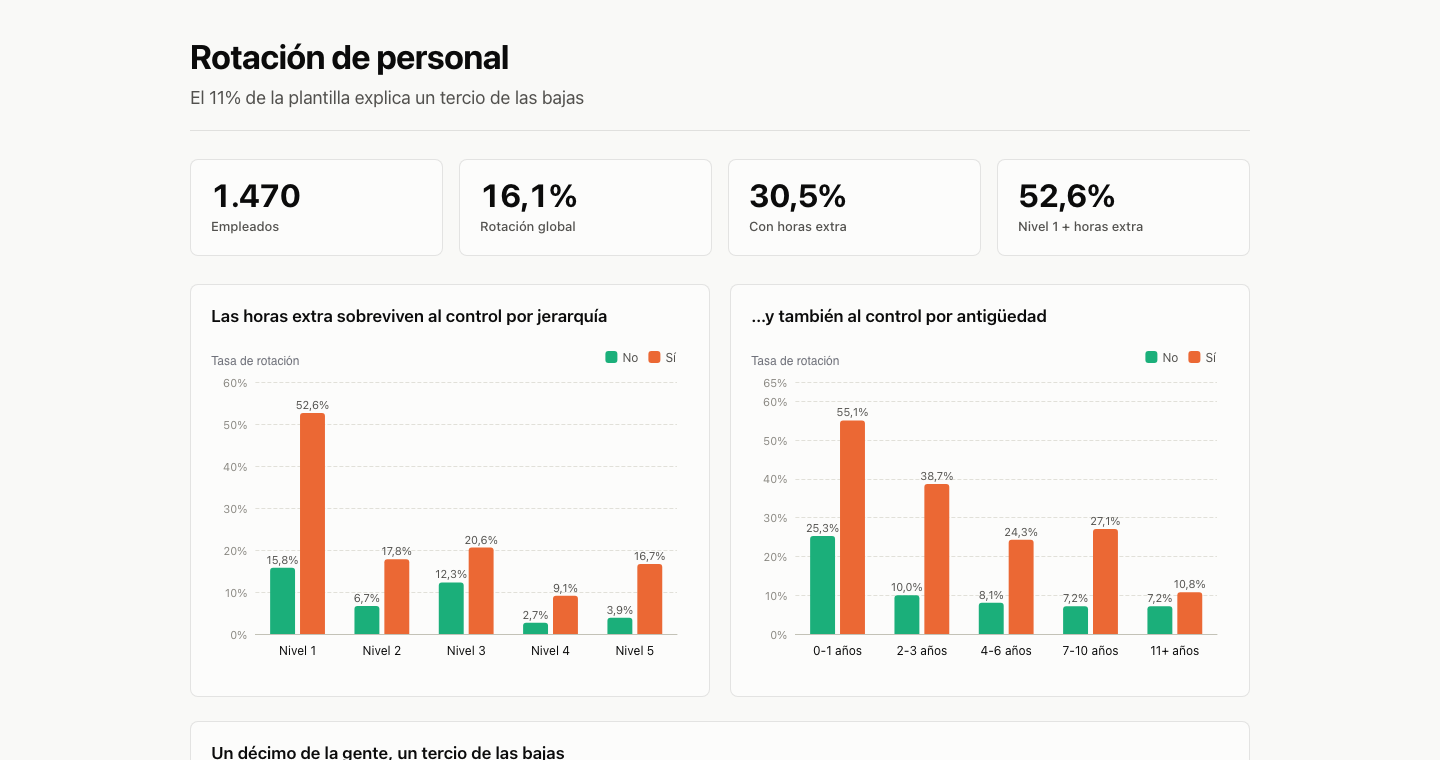
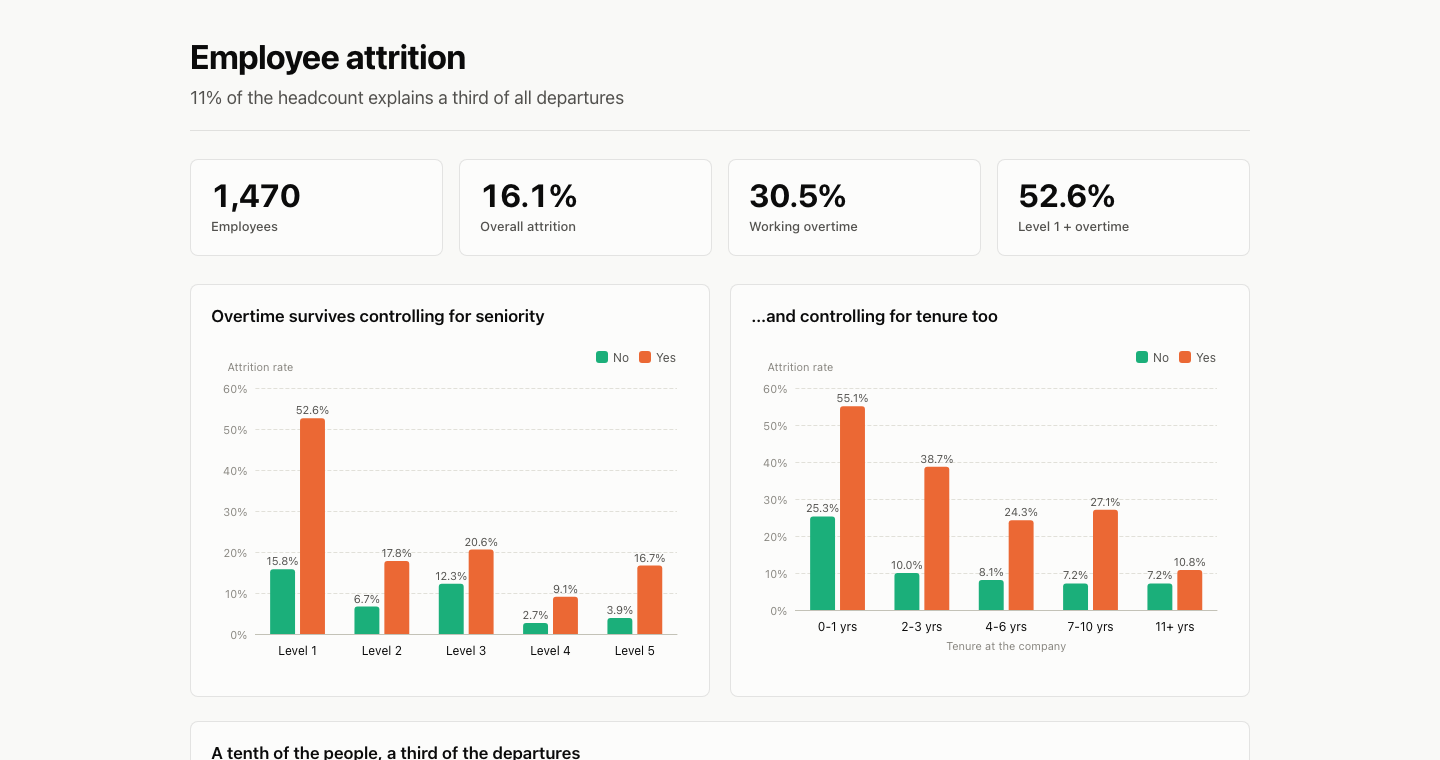
attrition.html: la version en ingles, ya sin choques de etiquetas
Las dos condiciones que bloqueaban la publicacion estan cumplidas. El
tablero esta en en-US sobre un sitio en ingles, numeros incluidos, y el
T-003 corrigio los cuatro titulos de eje encimados o cortados.

Sale de cambiar un JSON: mismo grafico.js para las dos versiones.

diff --git a/docs/dashboards/attrition.html b/docs/dashboards/attrition.html
@@ -1,9 +1,9 @@
 <!doctype html>
-<html lang="es-AR">
+<html lang="en-US">
 <head>
 <meta charset="utf-8">
 <meta name="viewport" content="width=device-width, initial-scale=1">
-<title>Rotación de personal</title>
+<title>Employee attrition</title>
 <!-- Tokens inlineados por build.py. No editar acá: la fuente es design/tokens.css -->
 <style>/* ============================================================
    DESIGN TOKENS — CERRADO
@@ -360,8 +360,8 @@ body {
 <body>
 <main class="reporte">
   <header class="cab">
-    <h1>Rotación de personal</h1>
-    <p class="bajada">El 11% de la plantilla explica un tercio de las bajas</p>
+    <h1>Employee attrition</h1>
+    <p class="bajada">11% of the headcount explains a third of all departures</p>
   </header>
 
   <!-- Secciones del reporte de rotación T-001 / T-002 -->
@@ -412,12 +412,12 @@ body {
 </section>
 
 
-  <footer class="pie"><p>Fuente: IBM HR Analytics — dataset sintético publicado por IBM. La metodología es real; los números no describen a ninguna empresa existente.</p></footer>
+  <footer class="pie"><p>Source: IBM HR Analytics — synthetic dataset published by IBM. The method is real and transferable; the figures describe no existing company.</p></footer>
 </main>
 
 <!-- Datos embebidos. NUNCA fetch: con file:// lo bloquea CORS y la pagina
      queda en blanco, que es exactamente el fallo que rompe el entregable. -->
-<script type="application/json" id="datos">{"libreria": "echarts", "cliente": "Muestra — IBM HR Analytics", "idioma": "es-AR", "titulo": "Rotación de personal", "bajada": "El 11% de la plantilla explica un tercio de las bajas", "pie": "Fuente: IBM HR Analytics — dataset sintético publicado por IBM. La metodología es real; los números no describen a ninguna empresa existente.", "dataset": {"filas": 1470, "fuente": "IBM HR Analytics (sintético, publicado por IBM)"}, "kpis": [{"id": "empleados", "etiqueta": "Empleados", "valor": "1.470"}, {"id": "rotacion", "etiqueta": "Rotación global", "valor": "16,1%"}, {"id": "con_he", "etiqueta": "Con horas extra", "valor": "30,5%"}, {"id": "hotspot", "etiqueta": "Nivel 1 + horas extra", "valor": "52,6%"}], "graficos": [{"id": "g1", "titulo": "Las horas extra sobreviven al control por jerarquía", "forma": "barras_agrupadas", "x": "nivel", "y": "tasa", "series": "horas_extra", "datos": [{"nivel": "Nivel 1", "horas_extra": "No", "tasa": 15.8, "n": 387}, {"nivel": "Nivel 1", "horas_extra": "Sí", "tasa": 52.6, "n": 156}, {"nivel": "Nivel 2", "horas_extra": "No", "tasa": 6.7, "n": 388}, {"nivel": "Nivel 2", "horas_extra": "Sí", "tasa": 17.8, "n": 146}, {"nivel": "Nivel 3", "horas_extra": "No", "tasa": 12.3, "n": 155}, {"nivel": "Nivel 3", "horas_extra": "Sí", "tasa": 20.6, "n": 63}, {"nivel": "Nivel 4", "horas_extra": "No", "tasa": 2.7, "n": 73}, {"nivel": "Nivel 4", "horas_extra": "Sí", "tasa": 9.1, "n": 33}, {"nivel": "Nivel 5", "horas_extra": "No", "tasa": 3.9, "n": 51}, {"nivel": "Nivel 5", "horas_extra": "Sí", "tasa": 16.7, "n": 18}], "etiquetas": {"eje_x": "", "eje_y": "Tasa de rotación", "serie": "Horas extra", "valor": "Tasa de rotación", "n": "Dotación", "unidad_n": "personas"}}, {"id": "g2", "titulo": "…y también al control por antigüedad", "forma": "barras_agrupadas", "x": "tramo", "y": "tasa", "series": "horas_extra", "datos": [{"tramo": "0-1 años", "horas_extra": "No", "tasa": 25.3, "n": 146}, {"tramo": "0-1 años", "horas_extra": "Sí", "tasa": 55.1, "n": 69}, {"tramo": "11+ años", "horas_extra": "No", "tasa": 7.2, "n": 181}, {"tramo": "11+ años", "horas_extra": "Sí", "tasa": 10.8, "n": 65}, {"tramo": "2-3 años", "horas_extra": "No", "tasa": 10.0, "n": 180}, {"tramo": "2-3 años", "horas_extra": "Sí", "tasa": 38.7, "n": 75}, {"tramo": "4-6 años", "horas_extra": "No", "tasa": 8.1, "n": 271}, {"tramo": "4-6 años", "horas_extra": "Sí", "tasa": 24.3, "n": 111}, {"tramo": "7-10 años", "horas_extra": "No", "tasa": 7.2, "n": 276}, {"tramo": "7-10 años", "horas_extra": "Sí", "tasa": 27.1, "n": 96}], "etiquetas": {"eje_x": "Antigüedad en la empresa", "eje_y": "Tasa de rotación", "serie": "Horas extra", "valor": "Tasa de rotación", "n": "Dotación", "unidad_n": "personas"}}, {"id": "g3", "titulo": "Un décimo de la gente, un tercio de las bajas", "forma": "barras_apiladas_100", "x": "panel", "series": "segmento", "datos": [{"panel": "Plantilla", "segmento": "Nivel 1 + horas extra", "pct": 10.6, "n": 156}, {"panel": "Plantilla", "segmento": "Resto", "pct": 89.4, "n": 1314}, {"panel": "Bajas", "segmento": "Nivel 1 + horas extra", "pct": 34.6, "n": 82}, {"panel": "Bajas", "segmento": "Resto", "pct": 65.4, "n": 155}], "etiquetas": {"eje_x": "", "eje_y": "% del total", "serie": "Segmento", "valor": "Participación", "n": "Personas", "unidad_n": "personas"}}, {"id": "g4", "titulo": "El sueldo retiene, pero solo dentro del nivel 1", "forma": "barras", "x": "quintil", "y": "tasa", "datos": [{"quintil": 1, "tasa": 34.9, "n": 109, "rango": "$1.009–2.220", "etiqueta": "1 (más bajo)"}, {"quintil": 2, "tasa": 34.9, "n": 109, "rango": "$2.226–2.506", "etiqueta": "2"}, {"quintil": 3, "tasa": 23.9, "n": 109, "rango": "$2.514–2.811", "etiqueta": "3"}, {"quintil": 4, "tasa": 19.4, "n": 108, "rango": "$2.814–3.423", "etiqueta": "4"}, {"quintil": 5, "tasa": 18.5, "n": 108, "rango": "$3.424–4.968", "etiqueta": "5 (más alto)"}], "etiquetas": {"eje_x": "Quintil de sueldo (1 = más bajo)", "eje_y": "Tasa de rotación", "serie": "Rotación", "subtitulo": "dentro del nivel 1", "valor": "Tasa de rotación", "n": "Dotación", "unidad_n": "personas"}}, {"id": "g5", "titulo": "Rotación por puesto", "forma": "barras_h", "x": "tasa", "y": "puesto", "datos": [{"puesto": "Representante de ventas", "tasa": 39.8, "n": 83}, {"puesto": "Técnico de laboratorio", "tasa": 23.9, "n": 259}, {"puesto": "Recursos humanos", "tasa": 23.1, "n": 52}, {"puesto": "Ejecutivo de ventas", "tasa": 17.5, "n": 326}, {"puesto": "Científico de investigación", "tasa": 16.1, "n": 292}, {"puesto": "Director de manufactura", "tasa": 6.9, "n": 145}, {"puesto": "Representante de salud", "tasa": 6.9, "n": 131}, {"puesto": "Gerente", "tasa": 4.9, "n": 102}, {"puesto": "Director de investigación", "tasa": 2.5, "n": 80}], "etiquetas": {"eje_x": "Tasa de rotación", "eje_y": "", "serie": "Rotación", "valor": "Tasa de rotación", "n": "Dotación", "unidad_n": "personas"}}], "orden_series": {"No": "--series-3", "Sí": "--series-2", "Nivel 1 + horas extra": "--series-2", "Resto": "--series-1"}, "locale": "es-AR"}</script>
+<script type="application/json" id="datos">{"libreria": "echarts", "cliente": "Portfolio sample — IBM HR Analytics", "idioma": "en-US", "titulo": "Employee attrition", "bajada": "11% of the headcount explains a third of all departures", "pie": "Source: IBM HR Analytics — synthetic dataset published by IBM. The method is real and transferable; the figures describe no existing company.", "dataset": {"filas": 1470, "fuente": "IBM HR Analytics (synthetic, published by IBM)"}, "kpis": [{"id": "empleados", "etiqueta": "Employees", "valor": "1,470"}, {"id": "rotacion", "etiqueta": "Overall attrition", "valor": "16.1%"}, {"id": "con_he", "etiqueta": "Working overtime", "valor": "30.5%"}, {"id": "hotspot", "etiqueta": "Level 1 + overtime", "valor": "52.6%"}], "graficos": [{"id": "g1", "titulo": "Overtime survives controlling for seniority", "forma": "barras_agrupadas", "x": "nivel", "y": "tasa", "series": "horas_extra", "datos": [{"nivel": "Level 1", "horas_extra": "No", "tasa": 15.8, "n": 387}, {"nivel": "Level 1", "horas_extra": "Yes", "tasa": 52.6, "n": 156}, {"nivel": "Level 2", "horas_extra": "No", "tasa": 6.7, "n": 388}, {"nivel": "Level 2", "horas_extra": "Yes", "tasa": 17.8, "n": 146}, {"nivel": "Level 3", "horas_extra": "No", "tasa": 12.3, "n": 155}, {"nivel": "Level 3", "horas_extra": "Yes", "tasa": 20.6, "n": 63}, {"nivel": "Level 4", "horas_extra": "No", "tasa": 2.7, "n": 73}, {"nivel": "Level 4", "horas_extra": "Yes", "tasa": 9.1, "n": 33}, {"nivel": "Level 5", "horas_extra": "No", "tasa": 3.9, "n": 51}, {"nivel": "Level 5", "horas_extra": "Yes", "tasa": 16.7, "n": 18}], "etiquetas": {"eje_x": "", "eje_y": "Attrition rate", "serie": "Overtime", "valor": "Attrition rate", "n": "Headcount", "unidad_n": "people"}}, {"id": "g2", "titulo": "…and controlling for tenure too", "forma": "barras_agrupadas", "x": "tramo", "y": "tasa", "series": "horas_extra", "datos": [{"tramo": "0-1 yrs", "horas_extra": "No", "tasa": 25.3, "n": 146}, {"tramo": "0-1 yrs", "horas_extra": "Yes", "tasa": 55.1, "n": 69}, {"tramo": "11+ yrs", "horas_extra": "No", "tasa": 7.2, "n": 181}, {"tramo": "11+ yrs", "horas_extra": "Yes", "tasa": 10.8, "n": 65}, {"tramo": "2-3 yrs", "horas_extra": "No", "tasa": 10.0, "n": 180}, {"tramo": "2-3 yrs", "horas_extra": "Yes", "tasa": 38.7, "n": 75}, {"tramo": "4-6 yrs", "horas_extra": "No", "tasa": 8.1, "n": 271}, {"tramo": "4-6 yrs", "horas_extra": "Yes", "tasa": 24.3, "n": 111}, {"tramo": "7-10 yrs", "horas_extra": "No", "tasa": 7.2, "n": 276}, {"tramo": "7-10 yrs", "horas_extra": "Yes", "tasa": 27.1, "n": 96}], "etiquetas": {"eje_x": "Tenure at the company", "eje_y": "Attrition rate", "serie": "Overtime", "valor": "Attrition rate", "n": "Headcount", "unidad_n": "people"}}, {"id": "g3", "titulo": "A tenth of the people, a third of the departures", "forma": "barras_apiladas_100", "x": "panel", "series": "segmento", "datos": [{"panel": "Headcount", "segmento": "Level 1 + overtime", "pct": 10.6, "n": 156}, {"panel": "Headcount", "segmento": "Everyone else", "pct": 89.4, "n": 1314}, {"panel": "Departures", "segmento": "Level 1 + overtime", "pct": 34.6, "n": 82}, {"panel": "Departures", "segmento": "Everyone else", "pct": 65.4, "n": 155}], "etiquetas": {"eje_x": "", "eje_y": "% of total", "serie": "Segment", "valor": "Share", "n": "People", "unidad_n": "people"}}, {"id": "g4", "titulo": "Pay retains, but only inside level 1", "forma": "barras", "x": "quintil", "y": "tasa", "datos": [{"quintil": 1, "tasa": 34.9, "n": 109, "rango": "$1.009–2.220", "etiqueta": "1 (lowest)"}, {"quintil": 2, "tasa": 34.9, "n": 109, "rango": "$2.226–2.506", "etiqueta": "2"}, {"quintil": 3, "tasa": 23.9, "n": 109, "rango": "$2.514–2.811", "etiqueta": "3"}, {"quintil": 4, "tasa": 19.4, "n": 108, "rango": "$2.814–3.423", "etiqueta": "4"}, {"quintil": 5, "tasa": 18.5, "n": 108, "rango": "$3.424–4.968", "etiqueta": "5 (highest)"}], "etiquetas": {"eje_x": "Salary quintile (1 = lowest)", "eje_y": "Attrition rate", "serie": "Attrition", "subtitulo": "within level 1", "valor": "Attrition rate", "n": "Headcount", "unidad_n": "people"}}, {"id": "g5", "titulo": "Sales reps leave at three times the company average", "forma": "barras_h", "x": "tasa", "y": "puesto", "datos": [{"puesto": "Sales Representative", "tasa": 39.8, "n": 83}, {"puesto": "Laboratory Technician", "tasa": 23.9, "n": 259}, {"puesto": "Human Resources", "tasa": 23.1, "n": 52}, {"puesto": "Sales Executive", "tasa": 17.5, "n": 326}, {"puesto": "Research Scientist", "tasa": 16.1, "n": 292}, {"puesto": "Manufacturing Director", "tasa": 6.9, "n": 145}, {"puesto": "Healthcare Representative", "tasa": 6.9, "n": 131}, {"puesto": "Manager", "tasa": 4.9, "n": 102}, {"puesto": "Research Director", "tasa": 2.5, "n": 80}], "etiquetas": {"eje_x": "Attrition rate", "eje_y": "", "serie": "Attrition", "valor": "Attrition rate", "n": "Headcount", "unidad_n": "people"}}], "orden_series": {"No": "--series-3", "Yes": "--series-2", "Level 1 + overtime": "--series-2", "Everyone else": "--series-1"}, "locale": "en-US"}</script>
 <!-- Libreria vendorizada e inlineada. Nunca CDN. -->
 <script>
 /*
@@ -634,7 +634,7 @@ var Fr={},Gr={};var Wr,Hr=function(){function t(t,e,n){var i=this;this._sleepAft
           }
         }),
         grid: {
-          top: 42,
+          top: 48,
           bottom: 24,
           left: 12,
           right: 12,
@@ -651,7 +651,17 @@ var Fr={},Gr={};var Wr,Hr=function(){function t(t,e,n){var i=this;this._sleepAft
         yAxis: {
           type: 'value',
           max: 60,
+          interval: 10,
           name: et.eje_y || '',
+          nameLocation: 'end',
+          nameGap: 16,
+          nameTextStyle: {
+            align: 'left',
+            padding: [0, 0, 0, -28],
+            color: t.inkMuted,
+            fontFamily: t.font,
+            fontSize: 11
+          },
           axisLine: { show: false },
           axisTick: { show: false },
           axisLabel: {
@@ -727,8 +737,8 @@ var Fr={},Gr={};var Wr,Hr=function(){function t(t,e,n){var i=this;this._sleepAft
           }
         }),
         grid: {
-          top: 42,
-          bottom: 24,
+          top: 48,
+          bottom: 48,
           left: 12,
           right: 12,
           containLabel: true
@@ -737,14 +747,31 @@ var Fr={},Gr={};var Wr,Hr=function(){function t(t,e,n){var i=this;this._sleepAft
           type: 'category',
           data: tramos,
           name: et.eje_x || '',
+          nameLocation: 'middle',
+          nameGap: 30,
+          nameTextStyle: {
+            color: t.inkMuted,
+            fontFamily: t.font,
+            fontSize: 11
+          },
           axisLine: { lineStyle: { color: t.baseline } },
           axisTick: { show: false },
           axisLabel: { color: t.inkPrimary, fontFamily: t.font, fontSize: 12, margin: 10 }
         },
         yAxis: {
           type: 'value',
-          max: 65,
+          max: 60,
+          interval: 10,
           name: et.eje_y || '',
+          nameLocation: 'end',
+          nameGap: 16,
+          nameTextStyle: {
+            align: 'left',
+            padding: [0, 0, 0, -28],
+            color: t.inkMuted,
+            fontFamily: t.font,
+            fontSize: 11
+          },
           axisLine: { show: false },
           axisTick: { show: false },
           axisLabel: {
@@ -817,8 +844,8 @@ var Fr={},Gr={};var Wr,Hr=function(){function t(t,e,n){var i=this;this._sleepAft
           }
         }),
         grid: {
-          top: 40,
-          bottom: 24,
+          top: 36,
+          bottom: 44,
           left: 12,
           right: 18,
           containLabel: true
@@ -827,7 +854,7 @@ var Fr={},Gr={};var Wr,Hr=function(){function t(t,e,n){var i=this;this._sleepAft
           type: 'category',
           inverse: true,
           data: paneles,
-          name: et.eje_y || '',
+          name: '',
           axisLine: { lineStyle: { color: t.baseline } },
           axisTick: { show: false },
           axisLabel: { color: t.inkPrimary, fontFamily: t.font, fontSize: 13, fontWeight: 600, margin: 12 }
@@ -836,7 +863,15 @@ var Fr={},Gr={};var Wr,Hr=function(){function t(t,e,n){var i=this;this._sleepAft
           type: 'value',
           min: 0,
           max: 100,
-          name: et.eje_x || '',
+          interval: 20,
+          name: et.eje_x || et.eje_y || '',
+          nameLocation: 'middle',
+          nameGap: 28,
+          nameTextStyle: {
+            color: t.inkMuted,
+            fontFamily: t.font,
+            fontSize: 11
+          },
           axisLine: { show: false },
           axisTick: { show: false },
           axisLabel: {
@@ -886,8 +921,8 @@ var Fr={},Gr={};var Wr,Hr=function(){function t(t,e,n){var i=this;this._sleepAft
           }
         }),
         grid: {
-          top: 24,
-          bottom: 34,
+          top: 48,
+          bottom: 44,
           left: 12,
           right: 12,
           containLabel: true
@@ -897,7 +932,7 @@ var Fr={},Gr={};var Wr,Hr=function(){function t(t,e,n){var i=this;this._sleepAft
           data: qCategorias,
           name: et.eje_x || '',
           nameLocation: 'middle',
-          nameGap: 24,
+          nameGap: 28,
           nameTextStyle: {
             color: t.inkMuted,
             fontFamily: t.font,
@@ -909,8 +944,18 @@ var Fr={},Gr={};var Wr,Hr=function(){function t(t,e,n){var i=this;this._sleepAft
         },
         yAxis: {
           type: 'value',
-          max: 42,
+          max: 40,
+          interval: 10,
           name: et.eje_y || '',
+          nameLocation: 'end',
+          nameGap: 16,
+          nameTextStyle: {
+            align: 'left',
+            padding: [0, 0, 0, -28],
+            color: t.inkMuted,
+            fontFamily: t.font,
+            fontSize: 11
+          },
           axisLine: { show: false },
           axisTick: { show: false },
           axisLabel: {
@@ -970,9 +1015,9 @@ var Fr={},Gr={};var Wr,Hr=function(){function t(t,e,n){var i=this;this._sleepAft
         }),
         grid: {
           top: 14,
-          bottom: 16,
+          bottom: 44,
           left: 12,
-          right: 84,
+          right: 100,
           containLabel: true
         },
         yAxis: {
@@ -991,8 +1036,16 @@ var Fr={},Gr={};var Wr,Hr=function(){function t(t,e,n){var i=this;this._sleepAft
         },
         xAxis: {
           type: 'value',
-          max: 48,
+          max: 50,
+          interval: 10,
           name: et.eje_x || '',
+          nameLocation: 'middle',
+          nameGap: 28,
+          nameTextStyle: {
+            color: t.inkMuted,
+            fontFamily: t.font,
+            fontSize: 11
+          },
           axisLine: { show: false },
           axisTick: { show: false },
           axisLabel: {

diff --git a/docs/dashboards/README.md b/docs/dashboards/README.md
@@ -7,18 +7,20 @@ datos adentro. Abre con doble clic, sin servidor y sin internet. Es el mismo
 archivo que recibe un cliente — por eso el portfolio lo muestra tal cual, en
 vez de una captura.
 
-| Archivo | Origen | Estado |
-|---|---|---|
-| `attrition.html` | `Antigravity/design/tickets/T-001` | **provisional, en castellano** |
+| Archivo | Origen | Idioma | Estado |
+|---|---|---|---|
+| `attrition.html` | `Antigravity` · T-001 → T-003 | en-US | listo para publicar |
 
-## attrition.html, qué falta antes de publicarlo
+## Cómo se regenera
 
-1. **Reemplazarlo por la versión en inglés.** El sitio está en inglés y el
-   tablero está en castellano. El JSON traducido ya existe; se construye con
-   `python3 frontend/build.py T-001-en` en el repo Antigravity.
-2. **Esperar el T-003.** La versión de hoy tiene cuatro títulos de eje
-   encimados o cortados. En el portfolio eso dice "lo armó un script y nadie
-   lo miró".
+En el repo `Antigravity`:
 
-No se publica hasta que esos dos estén. El archivo está acá para poder probar
-los enlaces del sitio, no para que lo vea nadie.
+```bash
+python3 design/traducir.py T-001 design/datos/T-001-en.json
+python3 frontend/build.py T-001-en
+cp output/portfolio-sample-ibm-hr-analytics/tablero-employee-attrition.html \
+   ../Data_Analytics_Projects/docs/dashboards/attrition.html
+```
+
+La versión en castellano del mismo tablero sale de `build.py T-001`, sin tocar
+una línea de código: el idioma y los textos viven en el JSON.
